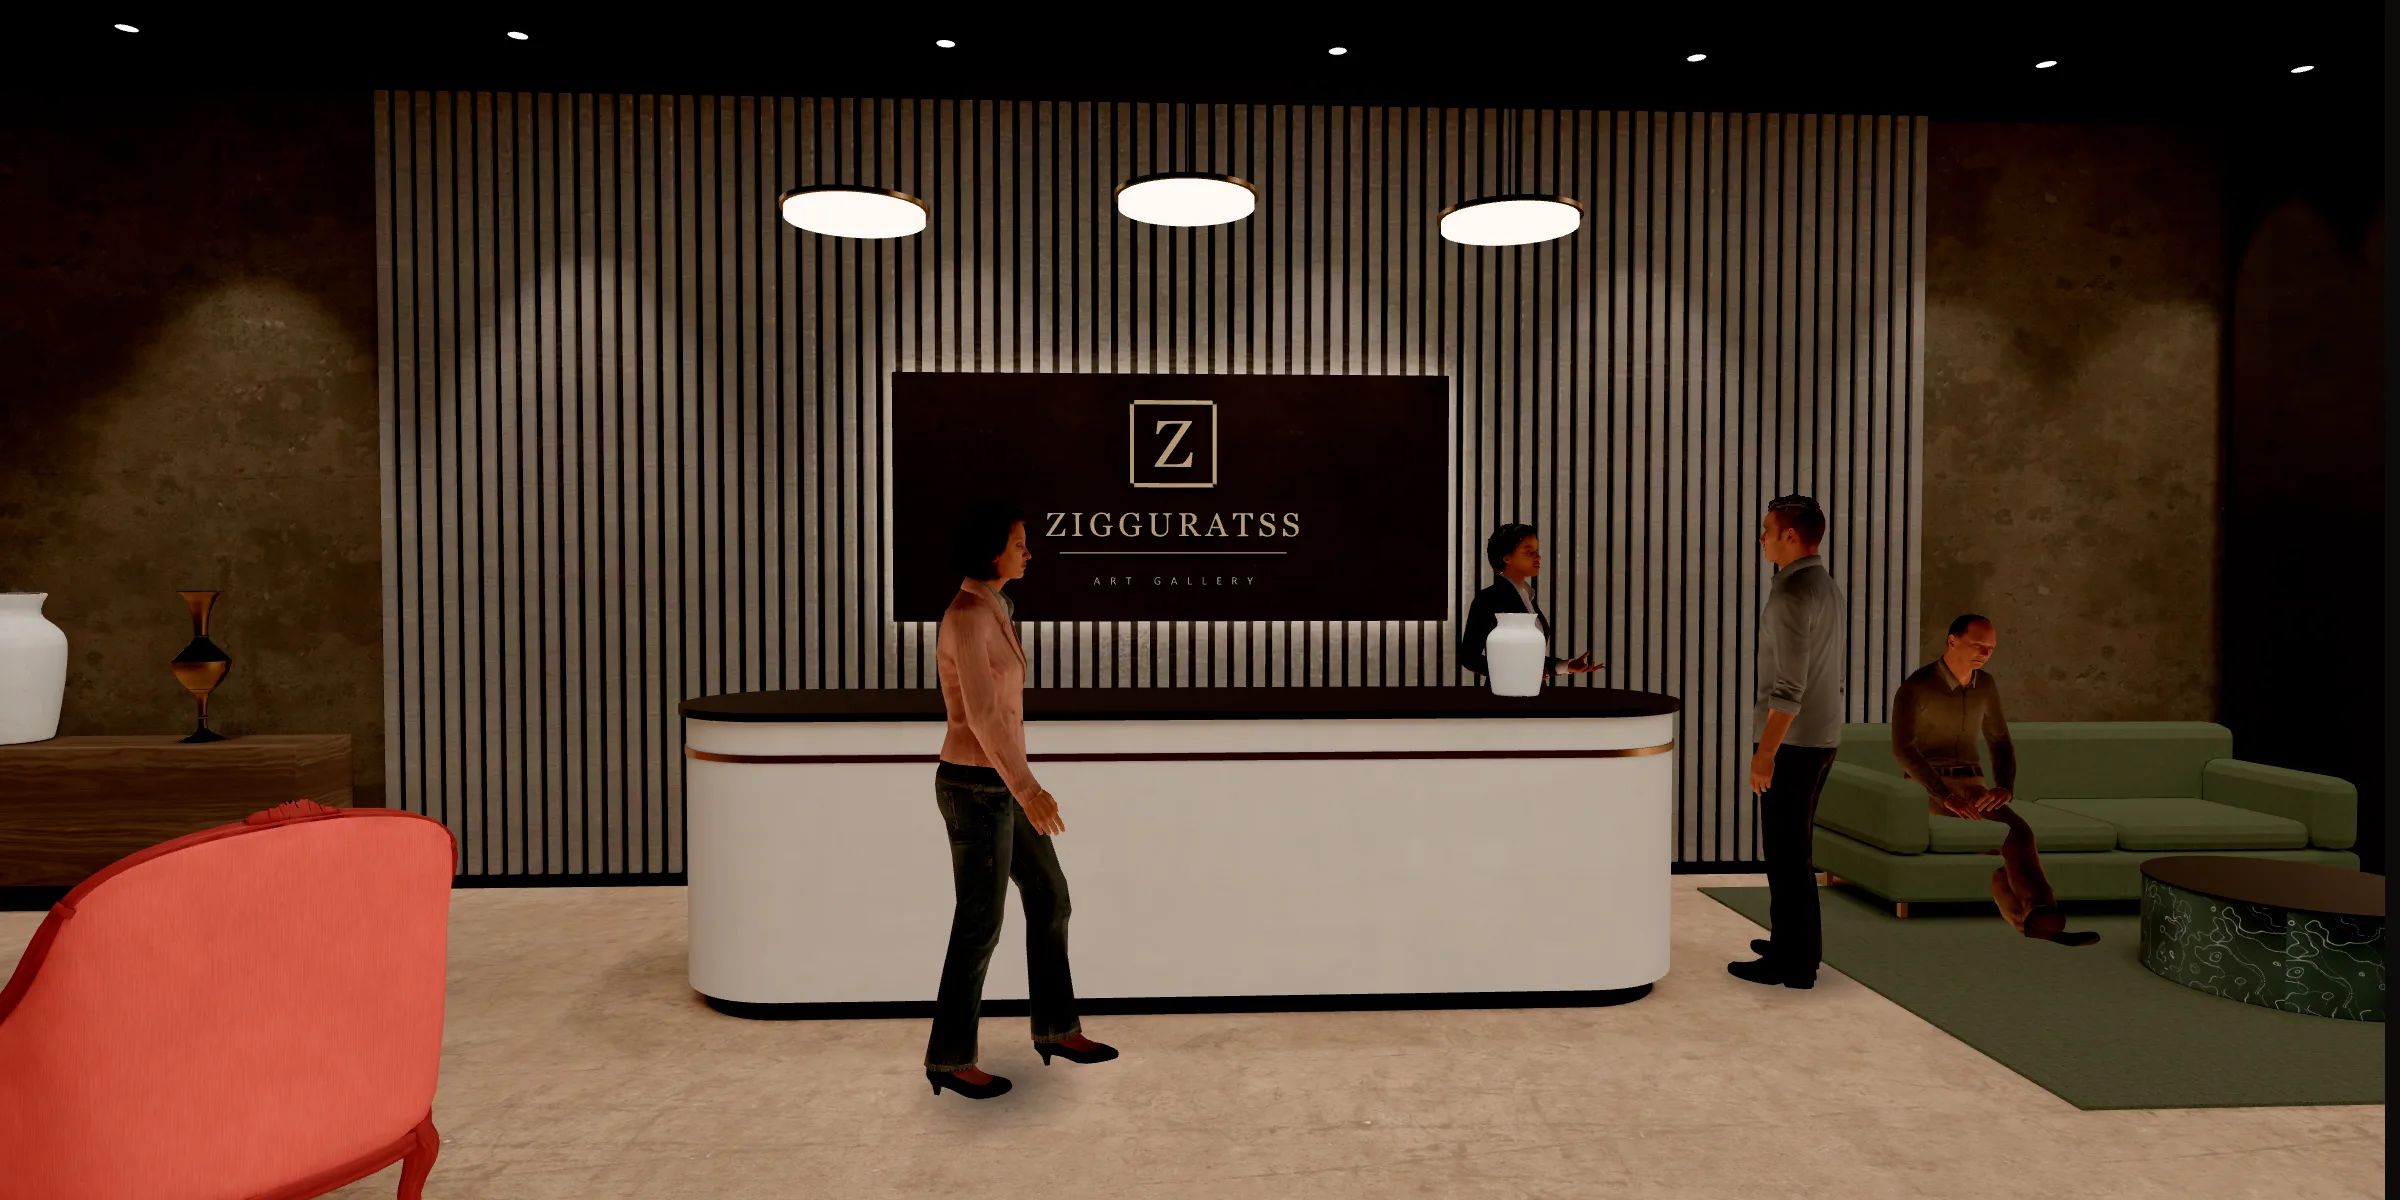
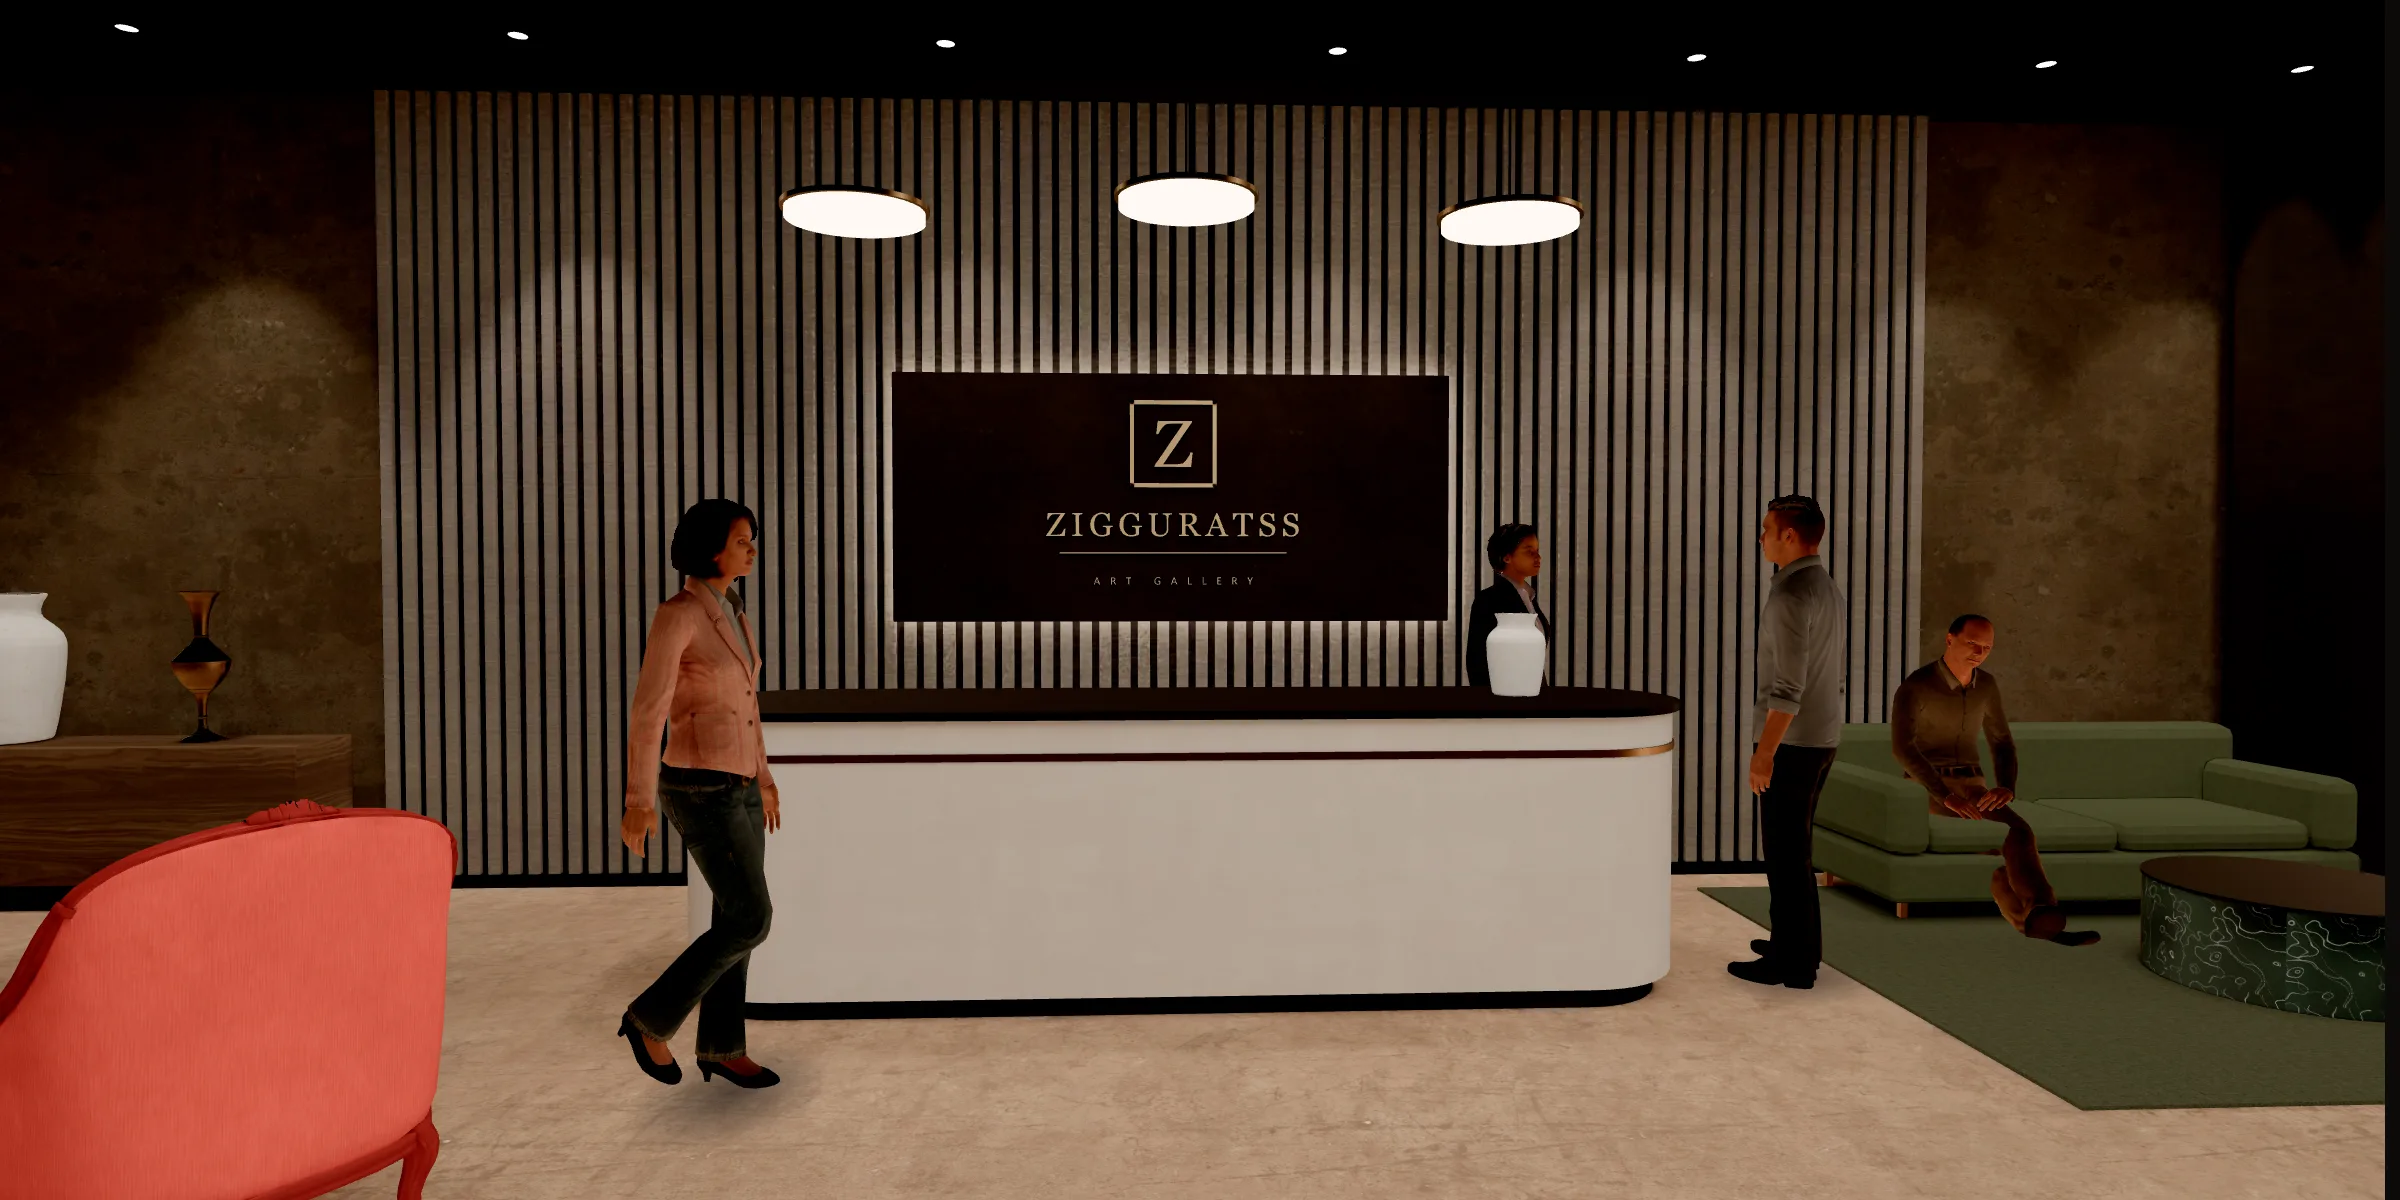
new push.

diff --git a/src/components/gallery/visitors.js b/src/components/gallery/visitors.js
@@ -32,12 +32,14 @@ export const PEOPLE = [
   {
     id: "stroller",
     pos: [-4.6, 0, -3.4],
-    look: [-0.3, -3.4],
+    look: [0.6, -3.4],
     env: "a",
     at: 0,
     first: true,
-    // (setting off from the console side: the sign is clear as the gallery opens)
-    walk: { to: [-0.3, -3.4], looks: [[-5.3, -5.75], [-0.8, -5.9]], pause: 1, start: 0.1 },
+    // (setting off from the console side, so the sign is clear as the gallery
+    // opens; she only ever passes in front of it, and waits at the desk in the
+    // gap between the receptionist and the guest, hiding neither)
+    walk: { to: [0.6, -3.4], looks: [[-5.3, -5.75], [0.7, -5.15]], pause: 1, start: 0.08 },
   },
   {
     // on the left-hand seat, sunk a little into its cushion (lower than 0.44 m)
